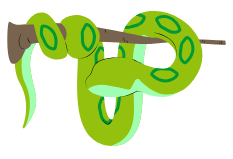
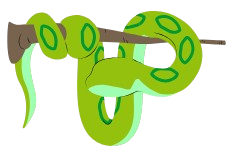
feat(images): alterando as imagens png e jpeg

diff --git a/FrontEnd/src/views/ContatosView.vue b/FrontEnd/src/views/ContatosView.vue
@@ -59,14 +59,14 @@
             <section class="card border rounded-0 shadow-sm bg-white overflow-hidden">
               <div class="row g-0 align-items-center">
                 <div class="col-sm-4 bg-light border-end d-flex align-items-center justify-content-center overflow-hidden h-100" style="min-height: 140px;">
-                  <img src="../assets/images/perfil2.jpg" alt="Foto de Perfil — Profa. Dra. Kita" class="w-100 h-100" style="object-fit: cover;" />
+                  <img src="../assets/images/prof_kita_01.jpeg" alt="Foto de Perfil — Profa. Dra. Kita" class="w-100 h-100" style="object-fit: cover;" />
                 </div>
                 <div class="col-sm-8">
                   <div class="card-body p-3">
                     <span class="badge rounded-0 bg-success text-uppercase mb-1 small">Fundadora</span>
                     <h3 class="h6 fw-bold text-dark m-0 text-uppercase">Profa. Dra. Kita</h3>
                     <p class="text-muted small m-0 mt-2 lh-sm">
-                      Contato institucional, parcerias científicas, e-mail acadêmico e redes de monitoramento biológico do campus.
+                      Bióloga, pesquisadora, professora e extensionista comprometida com a ciência, a educação e a inclusão social. Professora Titular da UFPA. Coordena o Projeto ConViva, que promove a coexistência entre a fauna silvestre e a comunidade universitária por meio da educação ambiental, divulgação científica e popularização da ciência.
                     </p>
                   </div>
                 </div>
@@ -76,14 +76,31 @@
             <section class="card border rounded-0 shadow-sm bg-white overflow-hidden">
               <div class="row g-0 align-items-center">
                 <div class="col-sm-4 bg-light border-end d-flex align-items-center justify-content-center overflow-hidden h-100" style="min-height: 140px;">
-                  <img src="../assets/images/perfil2.jpg" alt="Foto de Perfil — Prof. Dr. André Nunes" class="w-100 h-100" style="object-fit: cover;" />
+                  <img src="../assets/images/prof_gleomar.jpeg" alt="Foto de Perfil — Prof. Dr. Gleomar Fabiano Maschio" class="w-100 h-100" style="object-fit: cover;" />
                 </div>
                 <div class="col-sm-8">
                   <div class="card-body p-3">
-                    <span class="badge rounded-0 bg-dark text-white text-uppercase mb-1 small">Coordenador</span>
-                    <h3 class="h6 fw-bold text-dark m-0 text-uppercase">Prof. Dr. André Nunes</h3>
+                    <span class="badge rounded-0 bg-dark text-white text-uppercase mb-1 small">Pesquisador</span>
+                    <h3 class="h6 fw-bold text-dark m-0 text-uppercase">Prof. Dr. Gleomar Fabiano Maschio</h3>
                     <p class="text-muted small m-0 mt-2 lh-sm">
-                      Manejo técnico de ecologia, supervisão do LABEV, dados estatísticos de fauna silvestre e mapeamento espacial.
+                     Biólogo, pesquisador e educador dedicado ao estudo da fauna amazônica. Professor Associado do Instituto de Ciências Biológicas da UFPA. Sua trajetória é marcada pela atuação em Zoologia, especialmente na Herpetologia, investigando a diversidade, o comportamento e a ecologia das serpentes amazônicas.
+                    </p>
+                  </div>
+                </div>
+              </div>
+            </section>
+
+            <section class="card border rounded-0 shadow-sm bg-white overflow-hidden">
+              <div class="row g-0 align-items-center">
+                <div class="col-sm-4 bg-light border-end d-flex align-items-center justify-content-center overflow-hidden h-100" style="min-height: 140px;">
+                  <img src="../assets/images/prof_ana_cris.jpeg" alt="Foto de Perfil — Profa. Dr. Ana Cristina Mendes de Oliveira" class="w-100 h-100" style="object-fit: cover;" />
+                </div>
+                <div class="col-sm-8">
+                  <div class="card-body p-3">
+                    <span class="badge rounded-0 bg-dark text-white text-uppercase mb-1 small">Pesquisadora</span>
+                    <h3 class="h6 fw-bold text-dark m-0 text-uppercase">Profa. Dr. Ana Cristina Mendes de Oliveira</h3>
+                    <p class="text-muted small m-0 mt-2 lh-sm">
+                     Bióloga, pesquisadora, professora e extensionista comprometida com a ciência, a educação e a inclusão social. Professora Titular da UFPA. Coordena o Projeto ConViva, que promove a coexistência entre a fauna silvestre e a comunidade universitária por meio da educação ambiental, divulgação científica e popularização da ciência.
                     </p>
                   </div>
                 </div>